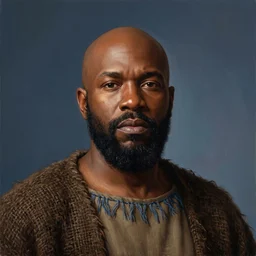
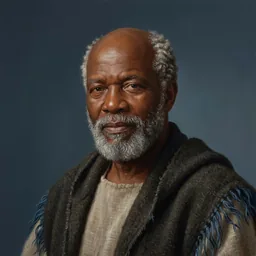
People show their portraits; 37 newly approved Timeline portraits (#148)
* Portraits: 23 new reviewed portraits (batches m-00, m-01, m-02)

Generated with Higgsfield (nano_banana_pro, 1k) from the per-person template
in docs/AVATARS.md and checked against scripts/avatars/REVIEW.md, then saved
at 256 and 128 px and added to app/scripts/timeline-portraits.json:

- m-00 (reviewed earlier, waiting for approval): Levi, Joseph, Paul, Peter,
  Pharaoh (Exodus 3), Jeroboam, Ahab.
- m-01: Pharaoh (Genesis 37), Jehoshaphat, Eleazar, Zedekiah, Asa, Pilate.
- m-02: Haman, Rachel, Jesse, Balak, Zadok, Abimelech, Ahaz, Jehoiakim,
  Amaziah, Gershon.

Portraits already approved on main (Jeremiah, Hezekiah, Elijah, Jonathan,
Daniel, Gideon, Josiah, Noah, Rehoboam, Samson) are kept unchanged. Isaiah,
Elisha and Jehu are left blank: an Israelite with no known tribe gets no
portrait. Gershon, before Sinai, has no fringes.

Claude-Session: https://claude.ai/code/session_01SAnhNM5FYpsVePpj5ChjqL

* Portraits: apply the owner's Timeline review of 5 October

- Keep the owner-approved round 3 and 4 portraits of Levi, Joseph, Paul,
  Peter, Ahab, Jehoshaphat, Eleazar, Jesse and Rachel (this branch had
  replaced them with new versions; those are dropped).
- Add the approved round 3 and 4 portraits to the approved list: Isaiah,
  Elisha, Ezekiel, Jonah, Nehemiah, John the apostle, Shem, Job, Terah,
  Rebekah, Leah, Bathsheba, Othniel.
- Hold back Joshua (needs to look like a warrior) and Christ (needs to look
  more austere) until they are redone.
[…]

diff --git a/app/src/screens/FamilyGraph.tsx b/app/src/screens/FamilyGraph.tsx
@@ -126,18 +126,18 @@ export function FamilyGraph({ person, onOpenProfile }: { person: Person; onOpenP
         </svg>
         <div className="fg__scene" key={scene}>
           {prev && previousPosition != null ? (
-            <Satellite at={positionOf(previousPosition, width)} center={center} order={0} name={prev.person.name} src={prev.person.image?.src} kind={prevKind}
+            <Satellite at={positionOf(previousPosition, width)} center={center} order={0} id={prev.person.id} name={prev.person.name} src={prev.person.image?.src} kind={prevKind}
               label={relationLabel(inverse(prev.via.relation, prevKind), prevKind)} relation={inverse(prev.via.relation, prevKind)} back onPress={back} />
           ) : null}
           {nodes.map(({ r, position }, i) => {
             const kind = kindOf(r.id, r.relation, active);
-            return <Satellite key={r.id} at={positionOf(position, width)} center={center} order={i + 1} name={r.name} src={r.image?.src} kind={kind}
+            return <Satellite key={r.id} at={positionOf(position, width)} center={center} order={i + 1} id={r.id} name={r.name} src={r.image?.src} kind={kind}
               label={relationLabel(r.relation, kind)} relation={r.relation} loading={busy === r.id} onPress={() => void walk(r, position)} />;
           })}
           <div className="fg__center" style={{ left: center.x - CENTER / 2, top: center.y - CENTER / 2 }}>
             <button type="button" className="fg__node fg__node--center" disabled={!elsewhere} aria-label={elsewhere ? `View ${active.name}'s profile` : active.name} title={elsewhere ? `View ${active.name}'s profile` : active.name}
               onClick={() => { haptic("select"); onOpenProfile(active.id); }}>
-              <EntityAvatar name={active.name} src={active.image?.src} kind={avatarKind(active.type) !== "other" ? avatarKind(active.type) : kindOf(active.id)} size={CENTER} />
+              <EntityAvatar id={active.id} name={active.name} src={active.image?.src} kind={avatarKind(active.type) !== "other" ? avatarKind(active.type) : kindOf(active.id)} size={CENTER} />
             </button>
             <div className="fg__label fg__label--center">
               <b>{active.name}</b>
@@ -162,14 +162,14 @@ function inverse(r: Relation, kind: AvatarKind): Relation {
   return r === "father" || r === "mother" ? "offspring" : r === "offspring" ? (kind === "female" ? "mother" : "father") : r;
 }
 
-function Satellite({ at, center, order, name, src, kind, label, relation, back, loading, onPress }: {
-  at: { x: number; y: number }; center: { x: number; y: number }; order: number; name: string; src?: string; kind: AvatarKind; label: string; relation: Relation; back?: boolean; loading?: boolean; onPress: () => void;
+function Satellite({ at, center, order, id, name, src, kind, label, relation, back, loading, onPress }: {
+  at: { x: number; y: number }; center: { x: number; y: number }; order: number; id?: string; name: string; src?: string; kind: AvatarKind; label: string; relation: Relation; back?: boolean; loading?: boolean; onPress: () => void;
 }) {
   const v = VISUAL[relation];
   return (
     <div className="fg__sat" style={{ left: at.x - NODE / 2, top: at.y - NODE / 2, ["--fg-dx" as string]: `${center.x - at.x}px`, ["--fg-dy" as string]: `${center.y - at.y}px`, animationDelay: `${order * 35}ms` }}>
       <button type="button" className="fg__node" aria-label={back ? `Back to ${name}` : `${label}, ${name}`} title={back ? `Back to ${name}` : `${label}, ${name}`} aria-busy={loading || undefined} onClick={onPress}>
-        <EntityAvatar name={name} src={src} kind={kind} size={NODE} />
+        <EntityAvatar id={id} name={name} src={src} kind={kind} size={NODE} />
         {back ? <span className="fg__back" aria-hidden="true"><Feather name="chevron-left" size={14} /></span> : null}
       </button>
       <div className="fg__label" style={{ width: NODE_W, marginLeft: (NODE - NODE_W) / 2 }}>

diff --git a/app/src/ui/avatar.tsx b/app/src/ui/avatar.tsx
@@ -1,9 +1,11 @@
-import type { CSSProperties } from "react";
+import { useState, type CSSProperties } from "react";
+import approved from "../../scripts/timeline-portraits.json";
 
 /**
- * A person's avatar, as Bible Strong shows one for each entity (a man, a woman, a group). Our own
- * pictures are still to be made: until then each is the name's first letter on a tint for its
- * kind. When the pictures exist, put them in AVATAR_IMAGES and every avatar in the app uses them.
+ * A person's avatar, as Bible Strong shows one for each entity (a man, a woman, a group). A person
+ * with an approved portrait shows it: the same approved set and files as the Timeline
+ * (app/scripts/timeline-portraits.json, public/people/<id>-<size>.webp; docs/AVATARS.md). Everyone
+ * else keeps the name's first letter on a tint for its kind.
  */
 export type AvatarKind = "male" | "female" | "group" | "other";
 
@@ -18,18 +20,29 @@ export function avatarKind(type?: string): AvatarKind {
   return "other";
 }
 
+/** Person ids with an approved portrait, shared with the Timeline. */
+export const PORTRAITS: ReadonlySet<string> = new Set((approved as { ids: string[] }).ids);
+
+/** The approved portrait sized for the avatar (128 or 256px, enough for a 2x screen), if there is one. */
+export function portraitSrc(id: string | undefined, size: number): string | undefined {
+  if (!id || !PORTRAITS.has(id)) return undefined;
+  return `${import.meta.env.BASE_URL}people/${id}-${size * 2 <= 128 ? 128 : 256}.webp`;
+}
+
 const initial = (name: string) => (name.replace(/^(the|a|an)\s+/i, "").match(/[A-Za-z]/)?.[0] ?? "?").toUpperCase();
 
 /** `ink` and `base` set the colours where the page's own tokens don't reach (the Bible's portals). */
-export function EntityAvatar({ name, kind, src: picture, size = 52, ink, base, className, style, ...rest }: {
-  name: string; kind: AvatarKind; src?: string; size?: number; ink?: string; base?: string; className?: string; style?: CSSProperties;
+export function EntityAvatar({ id, name, kind, src: picture, size = 52, ink, base, className, style, ...rest }: {
+  id?: string; name: string; kind: AvatarKind; src?: string; size?: number; ink?: string; base?: string; className?: string; style?: CSSProperties;
 } & Record<`data-${string}`, string | undefined>) {
-  const src = picture || AVATAR_IMAGES[kind];
+  const [failed, setFailed] = useState<string>();
+  const wanted = portraitSrc(id, size) || picture || AVATAR_IMAGES[kind];
+  const src = wanted && wanted !== failed ? wanted : undefined;
   const vars = { ...(ink ? { ["--av-ink" as string]: ink } : {}), ...(base ? { ["--av-base" as string]: base } : {}) };
   return (
     <span className={`avatar${className ? ` ${className}` : ""}`} data-kind={kind} aria-hidden="true" {...rest}
       style={{ width: size, height: size, fontSize: Math.round(size * 0.4), ...vars, ...style }}>
-      {src ? <img src={src} alt="" draggable={false} /> : initial(name)}
+      {src ? <img src={src} alt="" width={size} height={size} loading="lazy" decoding="async" draggable={false} onError={() => setFailed(src)} /> : initial(name)}
     </span>
   );
 }

diff --git a/app/src/bible/ui/ResourcesSheet.tsx b/app/src/bible/ui/ResourcesSheet.tsx
@@ -99,7 +99,7 @@ export function ResourcesSheet({ open, onClose, tab, setTab, slug, chapter, vers
           {topics.length ? <p className="bs-resources__sub">Precept topics</p> : null}
           {topics.map((c) => <TopicPrecepts key={c.url} cite={c} onRead={readRef} onOpen={() => { onClose(); navigate(withFrom(toApp(c.url))); }} />)}
         </>) : null}
-        {tab === "people" ? (named.isPending || everyone.isPending ? <p className="bs-loading">Loading...</p> : !here.length ? <p className="bs-loading">No one is named in this verse.</p> : here.map((p) => <button key={p.id} type="button" className="bs-resrow bs-resrow--person" onClick={() => { onClose(); navigate(`/person/${p.id}`); }}><EntityAvatar name={p.name} kind={avatarKind(p.type)} size={40} ink={avatarKind(p.type) === "female" ? "var(--bs-quart)" : "var(--bs-primary)"} base="var(--bs-reverse)" /><span><b>{p.name}</b><small>{p.description}{p.verses ? ` · named in ${p.verses} ${p.verses === 1 ? "verse" : "verses"}` : ""}</small></span></button>)) : null}
+        {tab === "people" ? (named.isPending || everyone.isPending ? <p className="bs-loading">Loading...</p> : !here.length ? <p className="bs-loading">No one is named in this verse.</p> : here.map((p) => <button key={p.id} type="button" className="bs-resrow bs-resrow--person" onClick={() => { onClose(); navigate(`/person/${p.id}`); }}><EntityAvatar id={p.id} name={p.name} kind={avatarKind(p.type)} size={40} ink={avatarKind(p.type) === "female" ? "var(--bs-quart)" : "var(--bs-primary)"} base="var(--bs-reverse)" /><span><b>{p.name}</b><small>{p.description}{p.verses ? ` · named in ${p.verses} ${p.verses === 1 ? "verse" : "verses"}` : ""}</small></span></button>)) : null}
         {tab === "dictionary" ? (dict.isPending && words.length ? <p className="bs-loading">Loading...</p> : !dict.data?.length ? <p className="bs-loading">No dictionary entry for the words in this verse.</p> : dict.data.map((e) => <button key={e.slug} type="button" className="bs-resrow" onClick={() => { onClose(); navigate(`/dictionary/${e.slug}`); }}><b>{e.term}</b><small>{e.definitions[0]}</small></button>)) : null}
         {tab === "themes" ? (cites.isPending ? <p className="bs-loading">Loading...</p> : !themes.length ? <p className="bs-loading">No law, precept, case or topic cites this verse.</p> : themes.map((c) => <button key={c.url} type="button" className="bs-resrow" onClick={() => { onClose(); navigate(withFrom(toApp(c.url))); }}><b>{c.label}</b><small>{shelf(c.url, c.kind)}</small></button>)) : null}
         {tab === "references" ? (xref.isPending ? <p className="bs-loading">Loading...</p> : !refs.length ? <p className="bs-loading">No cross references for this verse.</p> : <div className="bs-resources__xrefs"><Xrefs refs={refs} books={books} /></div>) : null}

diff --git a/app/src/bible/ui/SearchSheet.tsx b/app/src/bible/ui/SearchSheet.tsx
@@ -68,7 +68,7 @@ export function SearchSheet({ open, initial = "", onClose, books, onGo }: { open
       <div className="bs-search__list">
         {ref ? <Row icon="arrow-right-circle" title={`Go to ${ref.label.replace(ref.book, name(ref.slug))}`} sub="Open the chapter at this verse" onClick={() => go(ref.slug, ref.chapter, ref.verse)} /> : null}
         {bookOnly ? <Row icon="book-open" title={`Go to ${name(bookOnly.slug)}`} sub={`${bookOnly.chapters} chapters`} onClick={() => go(bookOnly.slug, 1)} /> : null}
-        {who.map((p) => <Row key={p.id} icon="users" leading={<EntityAvatar name={p.name} kind={avatarKind(p.type)} size={30} ink={avatarKind(p.type) === "female" ? "var(--bs-quart)" : "var(--bs-primary)"} base="var(--bs-reverse)" />} title={p.name} sub={`${p.description} · named in ${p.verses} ${p.verses === 1 ? "verse" : "verses"}`} onClick={() => { haptic("select"); onClose(); navigate(`/person/${p.id}`); }} />)}
+        {who.map((p) => <Row key={p.id} icon="users" leading={<EntityAvatar id={p.id} name={p.name} kind={avatarKind(p.type)} size={30} ink={avatarKind(p.type) === "female" ? "var(--bs-quart)" : "var(--bs-primary)"} base="var(--bs-reverse)" />} title={p.name} sub={`${p.description} · named in ${p.verses} ${p.verses === 1 ? "verse" : "verses"}`} onClick={() => { haptic("select"); onClose(); navigate(`/person/${p.id}`); }} />)}
         {!text ? <p className="bs-search__hint">Type a reference to go there, or a few words to find the verses. Put words in quotes to keep them together.</p> : null}
         {words.length >= 3 && found.isPending ? <p className="bs-search__hint">Searching…</p> : null}
         {words.length >= 3 && found.isError ? <p className="bs-search__hint" role="status">{diagnose(found.error).kind === "telegram" ? "Searching for words in the verses works inside Telegram. A reference like John 3:16, or a book’s name, opens here." : "Search is unavailable right now. Try again in a moment."}</p> : null}

diff --git a/app/src/bible/ui/ChapterPeople.tsx b/app/src/bible/ui/ChapterPeople.tsx
@@ -52,7 +52,7 @@ export function ChapterPeople({ slug, chapter, palette: c, resources }: { slug: 
             onClick={(e) => { e.stopPropagation(); haptic("select"); setOpen(true); }}>
             {shown.map(({ p, kind }, i) => {
               const f = fan(i, shown.length);
-              return <EntityAvatar key={p.id} name={p.name} kind={kind} size={62} ink={inkOf(kind, c)} base={c.reverse} className="bs-entities__avatar"
+              return <EntityAvatar key={p.id} id={p.id} name={p.name} kind={kind} size={62} ink={inkOf(kind, c)} base={c.reverse} className="bs-entities__avatar"
                 data-person-stack={p.id} data-rotate={String(f.r)}
                 style={{ transform: `translate(${f.x}px, ${f.y}px) rotate(${f.r}deg)`, zIndex: i + 1, borderColor: c.reverse, visibility: open ? "hidden" : undefined }} />;
             })}
@@ -123,7 +123,7 @@ function PeopleOverlay({ people, source, palette: c, onClosed }: { people: Named
           {people.map(({ p, n, kind }) => (
             <button key={p.id} type="button" className="bs-people__item" aria-label={`Open ${p.name}`} title={`Open ${p.name}`}
               onClick={(e) => { e.stopPropagation(); haptic("select"); navigate(`/person/${p.id}`); }}>
-              <EntityAvatar name={p.name} kind={kind} size={68} ink={inkOf(kind, c)} base={c.reverse} className="bs-people__avatar" data-person-card={p.id} style={{ borderColor: c.reverse }} />
+              <EntityAvatar id={p.id} name={p.name} kind={kind} size={68} ink={inkOf(kind, c)} base={c.reverse} className="bs-people__avatar" data-person-card={p.id} style={{ borderColor: c.reverse }} />
               <span className="bs-people__text" style={{ animationDelay: `${delayOf(p.id) + 180}ms` }}>
                 <b>{p.name}</b>
                 <small>{KIND_LABEL[kind]} · {n} {n === 1 ? "verse" : "verses"}</small>

diff --git a/app/src/screens/People.tsx b/app/src/screens/People.tsx
@@ -35,7 +35,7 @@ export function People() {
       {!debounced ? <Segmented label="Order" value={order} onChange={(o) => { setOrder(o); setLimit(60); }} options={[["most", "Most spoken of"], ["az", "A to Z"]]} /> : null}
       {people.isPending ? <Skeleton rows={8} /> : people.isError ? <Empty title="The people did not load" action={{ label: "Retry", onClick: () => void people.refetch() }} /> : !rows.length ? <Empty title={`No one called “${q.trim()}”`}>Try another spelling; the King James spells some names more than one way.</Empty> : (
         <Section title={debounced ? `${rows.length.toLocaleString()} ${rows.length === 1 ? "person" : "people"}` : undefined}>
-          <List>{rows.slice(0, limit).map((p) => <Row key={p.id} href={`/person/${p.id}`} leading={<EntityAvatar name={p.name} kind={avatarKind(p.type)} size={40} />} title={p.name} sub={p.description || (p.names.length > 1 ? p.names.filter((n) => n !== p.name).join(", ") : p.first)} trailing={<span className="row__count">{p.verses.toLocaleString()} {p.verses === 1 ? "verse" : "verses"}<Icon name="chevron" size={18} /></span>} />)}</List>
+          <List>{rows.slice(0, limit).map((p) => <Row key={p.id} href={`/person/${p.id}`} leading={<EntityAvatar id={p.id} name={p.name} kind={avatarKind(p.type)} size={40} />} title={p.name} sub={p.description || (p.names.length > 1 ? p.names.filter((n) => n !== p.name).join(", ") : p.first)} trailing={<span className="row__count">{p.verses.toLocaleString()} {p.verses === 1 ? "verse" : "verses"}<Icon name="chevron" size={18} /></span>} />)}</List>
           {rows.length > limit ? <button type="button" className="btn btn--plain more-btn" onClick={() => setLimit((n) => n + 100)}>More · {(rows.length - limit).toLocaleString()} left</button> : null}
         </Section>
       )}

diff --git a/app/src/screens/Cases.tsx b/app/src/screens/Cases.tsx
@@ -119,7 +119,7 @@ export function CaseScreen() {
         <CaseSection title="People in this case">
           <ul className="case__people">
             {k.people.map((p) => (
-              <li key={p.id}><Link to={`/person/${p.id}`} className="case__person" onClick={() => haptic("select")}><EntityAvatar name={p.name} kind={avatarKind(typeOf.get(p.id))} size={32} /><span>{p.name}</span><Feather name="chevron-right" size={14} color="currentColor" /></Link></li>
+              <li key={p.id}><Link to={`/person/${p.id}`} className="case__person" onClick={() => haptic("select")}><EntityAvatar id={p.id} name={p.name} kind={avatarKind(typeOf.get(p.id))} size={32} /><span>{p.name}</span><Feather name="chevron-right" size={14} color="currentColor" /></Link></li>
             ))}
           </ul>
         </CaseSection>

diff --git a/app/src/screens/Person.tsx b/app/src/screens/Person.tsx
@@ -52,7 +52,7 @@ export function Person() {
     <Screen className="entity">
       <header className="entity__summary">
         <div className="entity__id">
-          <EntityAvatar name={d.name} kind={kind} src={d.image?.src} size={48} />
+          <EntityAvatar id={d.id} name={d.name} kind={kind} src={d.image?.src} size={48} />
           <div>
             <p className="entity__eyebrow">{eyebrow}</p>
             <h1 className="entity__name">{d.name}</h1>

diff --git a/CHANGELOG.md b/CHANGELOG.md
@@ -22,6 +22,8 @@ request that introduced this file ([#77]).
 
 ## [Unreleased]
 
+- People show their portraits everywhere a person appears (the People list, a person's page, the family graph, the chapter's people, search, case studies), the same approved portraits as the Timeline; anyone without one keeps their letter.
+- More people have portraits on the Timeline: 37 newly approved, among them Christ, Joshua, Isaiah, Ezekiel, Nehemiah, Rachel, Leah and Rebekah, each drawn as the scriptures and the classes describe them.
 - Small library updates behind the scenes (search caching, the bot's web framework, the Anthropic SDK), with no visible change.
 - Routine dependency updates now leave TypeScript, Vite, the Vite React plugin and the Workers types package out of the weekly batch, so a major version of one of those is upgraded on its own instead of bundled in with everything else.
 
